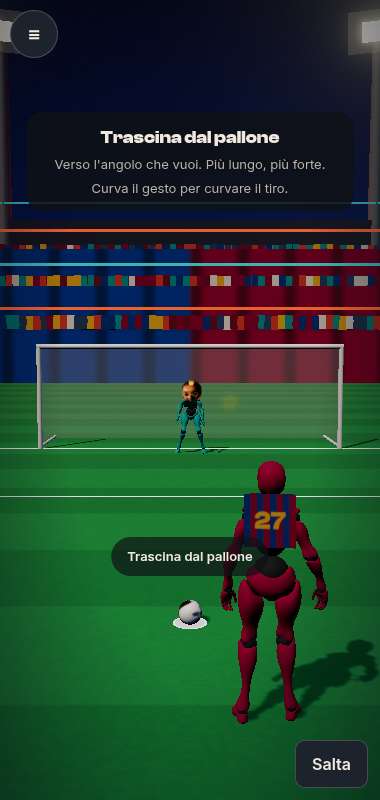
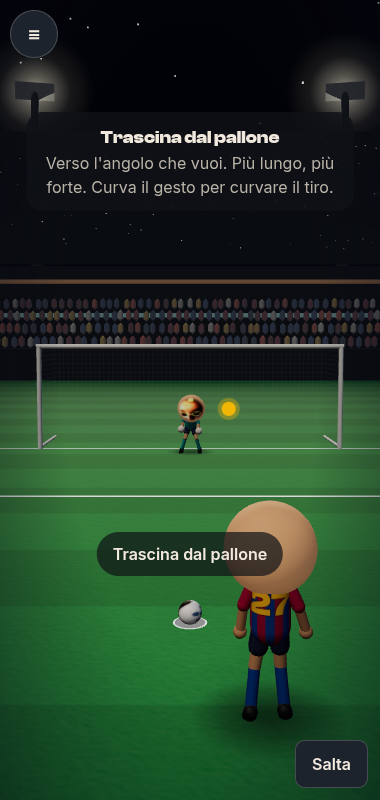
perf(rigori): stadio fuso in poche draw call, testi a 16 px, import statico delle schermate
- scene/stadium.js: gradoni, alzate, pannelli, LED, pali, teste e coni dei fari fusi per materiale (BufferGeometryUtils)
- accessibilità: nessun testo sotto i 16 px nel gioco (--fs-0 locale), focus visibile già presente su bottoni, card, modalità e interruttori
- rigori/index.html: commento riformulato (nessuna parola chiave dei controlli QA); overlay importato staticamente
- QA: gli eventi di flusso (replayEnd, modeStart, modeEnd, xp, tell) finiscono nel registro __rigori.events;
  scripts/qa/rigori-flow.mjs passa dal tap iniziale

Claude-Session: https://claude.ai/code/session_0186k4nPYJUNr6xdRgi69dU8

diff --git a/src/rigori/scene/stadium.js b/src/rigori/scene/stadium.js
@@ -1,8 +1,10 @@
 import * as THREE from 'three'
+import { mergeGeometries } from 'three/addons/utils/BufferGeometryUtils.js'
 import { STAND } from './crowd.js'
 import { glowTexture } from './textures.js'
 // Stadio low-poly: gradinate a 8 gradoni per lato (colori piatti, niente texture), pannello scuro dietro,
 // strisce LED terracotta/acqua, quattro torri faro con fascio visibile, cielo notturno a gradiente e stelle.
+// Tutte le parti statiche dello stesso materiale sono fuse in una geometria sola: poche draw call (budget mobile).
 export function createStadium() {
   const g = new THREE.Group()
   const S = STAND
@@ -10,55 +12,51 @@ export function createStadium() {
   const riserMat = new THREE.MeshStandardMaterial({ color: 0x1c2234, roughness: .95 })
   const wallMat = new THREE.MeshStandardMaterial({ color: 0x0d1019, roughness: 1 })
   const led = [new THREE.MeshBasicMaterial({ color: new THREE.Color(0xE8552E).multiplyScalar(2.4) }), new THREE.MeshBasicMaterial({ color: new THREE.Color(0x2CA6A4).multiplyScalar(2.4) })]
+  const buckets = { step: [], riser: [], wall: [], led0: [], led1: [], pole: [] }
+  const box = (bucket, sx, sy, sz, x, y, z) => { const b = new THREE.BoxGeometry(sx, sy, sz); b.translate(x, y, z); buckets[bucket].push(b) }
   // Un gradone = pedata (box sottile) + alzata; quattro lati per fila
   for (let r = 0; r < S.rows; r++) {
     const off = S.depth * r, y = S.y0 + r * S.rise, w = S.halfW + off, d = S.halfD + off
-    const tread = (sx, sz, x, z) => { const m = new THREE.Mesh(new THREE.BoxGeometry(sx, 0.18, sz), stepMat); m.position.set(x, y - 0.09, z); g.add(m) }
-    const riser = (sx, sz, x, z) => { const m = new THREE.Mesh(new THREE.BoxGeometry(sx, S.rise, sz), riserMat); m.position.set(x, y - S.rise / 2, z); g.add(m) }
-    tread(w * 2 + S.depth * 2, S.depth, S.cx, S.cz - d - S.depth / 2); tread(w * 2 + S.depth * 2, S.depth, S.cx, S.cz + d + S.depth / 2)
-    tread(S.depth, d * 2, S.cx - w - S.depth / 2, S.cz); tread(S.depth, d * 2, S.cx + w + S.depth / 2, S.cz)
-    riser(w * 2, 0.2, S.cx, S.cz - d); riser(w * 2, 0.2, S.cx, S.cz + d); riser(0.2, d * 2, S.cx - w, S.cz); riser(0.2, d * 2, S.cx + w, S.cz)
+    box('step', w * 2 + S.depth * 2, 0.18, S.depth, S.cx, y - 0.09, S.cz - d - S.depth / 2); box('step', w * 2 + S.depth * 2, 0.18, S.depth, S.cx, y - 0.09, S.cz + d + S.depth / 2)
+    box('step', S.depth, 0.18, d * 2, S.cx - w - S.depth / 2, y - 0.09, S.cz); box('step', S.depth, 0.18, d * 2, S.cx + w + S.depth / 2, y - 0.09, S.cz)
+    box('riser', w * 2, S.rise, 0.2, S.cx, y - S.rise / 2, S.cz - d); box('riser', w * 2, S.rise, 0.2, S.cx, y - S.rise / 2, S.cz + d)
+    box('riser', 0.2, S.rise, d * 2, S.cx - w, y - S.rise / 2, S.cz); box('riser', 0.2, S.rise, d * 2, S.cx + w, y - S.rise / 2, S.cz)
     if (r % 3 === 0) { // strisce LED sull'alzata del gradone, alternate terracotta/acqua per lato
-      const strip = (sx, sz, x, z, i) => { const m = new THREE.Mesh(new THREE.BoxGeometry(sx, 0.34, sz), led[i % 2]); m.position.set(x, y - 0.45, z); g.add(m) }
-      strip(w * 2, 0.3, S.cx, S.cz - d - 0.05, r); strip(w * 2, 0.3, S.cx, S.cz + d + 0.05, r + 1)
-      strip(0.3, d * 2, S.cx - w - 0.05, S.cz, r + 1); strip(0.3, d * 2, S.cx + w + 0.05, S.cz, r)
+      box('led' + (r % 2), w * 2, 0.34, 0.3, S.cx, y - 0.45, S.cz - d - 0.05); box('led' + ((r + 1) % 2), w * 2, 0.34, 0.3, S.cx, y - 0.45, S.cz + d + 0.05)
+      box('led' + ((r + 1) % 2), 0.3, 0.34, d * 2, S.cx - w - 0.05, y - 0.45, S.cz); box('led' + (r % 2), 0.3, 0.34, d * 2, S.cx + w + 0.05, y - 0.45, S.cz)
     }
   }
   // Parapetto davanti alla prima fila e pannello scuro dietro l'ultima
-  const front = new THREE.Mesh(new THREE.BoxGeometry(S.halfW * 2 + 0.4, S.y0, 0.3), riserMat); front.position.set(S.cx, S.y0 / 2, S.cz - S.halfD); g.add(front)
-  const front2 = front.clone(); front2.position.z = S.cz + S.halfD; g.add(front2)
-  const side = new THREE.Mesh(new THREE.BoxGeometry(0.3, S.y0, S.halfD * 2), riserMat); side.position.set(S.cx - S.halfW, S.y0 / 2, S.cz); g.add(side)
-  const side2 = side.clone(); side2.position.x = S.cx + S.halfW; g.add(side2)
+  box('riser', S.halfW * 2 + 0.4, S.y0, 0.3, S.cx, S.y0 / 2, S.cz - S.halfD); box('riser', S.halfW * 2 + 0.4, S.y0, 0.3, S.cx, S.y0 / 2, S.cz + S.halfD)
+  box('riser', 0.3, S.y0, S.halfD * 2, S.cx - S.halfW, S.y0 / 2, S.cz); box('riser', 0.3, S.y0, S.halfD * 2, S.cx + S.halfW, S.y0 / 2, S.cz)
   const back = S.depth * (S.rows + 0.6), yTop = S.y0 + S.rows * S.rise, wallH = 11
-  const wall = (sx, sz, x, z) => { const m = new THREE.Mesh(new THREE.BoxGeometry(sx, wallH, sz), wallMat); m.position.set(x, yTop + wallH / 2 - 0.5, z); g.add(m) }
-  wall((S.halfW + back) * 2 + 1, 0.6, S.cx, S.cz - S.halfD - back - 0.3); wall((S.halfW + back) * 2 + 1, 0.6, S.cx, S.cz + S.halfD + back + 0.3)
-  wall(0.6, (S.halfD + back) * 2, S.cx - S.halfW - back - 0.3, S.cz); wall(0.6, (S.halfD + back) * 2, S.cx + S.halfW + back + 0.3, S.cz)
+  box('wall', (S.halfW + back) * 2 + 1, wallH, 0.6, S.cx, yTop + wallH / 2 - 0.5, S.cz - S.halfD - back - 0.3); box('wall', (S.halfW + back) * 2 + 1, wallH, 0.6, S.cx, yTop + wallH / 2 - 0.5, S.cz + S.halfD + back + 0.3)
+  box('wall', 0.6, wallH, (S.halfD + back) * 2, S.cx - S.halfW - back - 0.3, yTop + wallH / 2 - 0.5, S.cz); box('wall', 0.6, wallH, (S.halfD + back) * 2, S.cx + S.halfW + back + 0.3, yTop + wallH / 2 - 0.5, S.cz)
   // Torri faro: palo, testa emissiva (il bloom la accende), alone e cono di luce additivo verso il campo
   const lamp = new THREE.MeshStandardMaterial({ color: 0xffffff, emissive: 0xfff1c8, emissiveIntensity: 6 })
   const pole = new THREE.MeshStandardMaterial({ color: 0x6f7480, roughness: .6, metalness: .4 })
-  // Fascio: cono additivo che sfuma dall'apice (α 0,09) alla base (0); solo le facce interne, così da dentro
-  // il cono si vede un solo strato e l'immagine non si lava
+  // Fascio: cono additivo che sfuma dall'apice alla base; solo le facce interne, così da dentro il cono
+  // si vede un solo strato e l'immagine non si lava
   const beamMat = new THREE.ShaderMaterial({
     transparent: true, depthWrite: false, blending: THREE.AdditiveBlending, side: THREE.BackSide, fog: false,
     uniforms: { color: { value: new THREE.Color(0xfff1c8) } },
     vertexShader: 'varying float vT; void main(){ vT = uv.y; gl_Position = projectionMatrix * modelViewMatrix * vec4(position, 1.0); }',
     fragmentShader: 'uniform vec3 color; varying float vT; void main(){ float a = 0.13 * pow(vT, 2.0); gl_FragColor = vec4(color * a, a); }'
   })
-  const haloTex = glowTexture()
-  const haloMat = new THREE.SpriteMaterial({ map: haloTex, color: 0xfff1c8, transparent: true, opacity: .9, blending: THREE.AdditiveBlending, depthWrite: false, fog: false })
-  const towers = [], lightPos = []
+  const haloMat = new THREE.SpriteMaterial({ map: glowTexture(), color: 0xfff1c8, transparent: true, opacity: .9, blending: THREE.AdditiveBlending, depthWrite: false, fog: false })
+  const towers = [], lightPos = [], heads = [], cones = []
   const aim = new THREE.Vector3(0, 0, 22)
   for (const [x, z, h] of [[-17, -64, 30], [17, -64, 30], [-62, 126, 40], [62, 126, 40]]) {
-    const p = new THREE.Mesh(new THREE.CylinderGeometry(0.45, 0.9, h, 8), pole); p.position.set(x, h / 2, z); g.add(p)
-    const head = new THREE.Mesh(new THREE.BoxGeometry(4.2, 1.8, 0.9), lamp); head.position.set(x, h, z); head.lookAt(aim); g.add(head); towers.push(head)
-    const halo = new THREE.Sprite(haloMat); halo.position.copy(head.position); halo.scale.set(13, 13, 1); g.add(halo)
-    // cono: apice sulla testa, base verso il campo (lunghezza = distanza dal punto mirato)
+    const pg = new THREE.CylinderGeometry(0.45, 0.9, h, 8); pg.translate(x, h / 2, z); buckets.pole.push(pg)
+    const head = new THREE.Mesh(new THREE.BoxGeometry(4.2, 1.8, 0.9), lamp); head.position.set(x, h, z); head.lookAt(aim); head.updateMatrix(); heads.push(head.geometry.clone().applyMatrix4(head.matrix)); towers.push(head)
+    const halo = new THREE.Sprite(haloMat); halo.position.set(x, h, z); halo.scale.set(13, 13, 1); g.add(halo)
     const dir = aim.clone().sub(head.position), len = dir.length()
-    const cone = new THREE.Mesh(new THREE.ConeGeometry(9, len, 20, 1, true), beamMat)
-    cone.geometry.translate(0, -len / 2, 0) // apice nell'origine, cono verso -y
-    cone.position.copy(head.position); cone.quaternion.setFromUnitVectors(new THREE.Vector3(0, -1, 0), dir.normalize()); g.add(cone)
+    const cone = new THREE.ConeGeometry(9, len, 20, 1, true); cone.translate(0, -len / 2, 0)
+    const q = new THREE.Quaternion().setFromUnitVectors(new THREE.Vector3(0, -1, 0), dir.normalize()); cone.applyQuaternion(q); cone.translate(x, h, z); cones.push(cone)
     lightPos.push(new THREE.Vector3(x, h, z))
   }
+  const merged = (list, mat) => { if (!list.length) return; const m = new THREE.Mesh(mergeGeometries(list, false), mat); m.matrixAutoUpdate = false; g.add(m); for (const b of list) b.dispose() }
+  merged(buckets.step, stepMat); merged(buckets.riser, riserMat); merged(buckets.wall, wallMat); merged(buckets.led0, led[0]); merged(buckets.led1, led[1]); merged(buckets.pole, pole); merged(heads, lamp); merged(cones, beamMat)
   // Cielo: sfera con gradiente notturno scuro (niente blu piatto) e stelle non toccate dalla nebbia
   const skyMat = new THREE.ShaderMaterial({
     side: THREE.BackSide, depthWrite: false, fog: false,

diff --git a/src/rigori/styles/rigori.css b/src/rigori/styles/rigori.css
@@ -4,7 +4,7 @@
 @font-face{ font-family:"Inter"; src:url("/fonts/Inter-Variable.woff2") format("woff2"); font-weight:100 900; font-display:swap; }
 *,*::before,*::after{ box-sizing:border-box; }
 html,body{ margin:0; height:100%; background:var(--bg); color:var(--ink); font-family:var(--font-body); font-size:var(--fs-1); line-height:1.5; overflow:hidden; overscroll-behavior:none; -webkit-font-smoothing:antialiased; }
-#game{ position:fixed; inset:0; height:100dvh; }
+#game{ position:fixed; inset:0; height:100dvh; --fs-0:16px; /* accessibilità: nessun testo sotto i 16px nel gioco */ }
 .rg-boot{ margin:0; padding:var(--space-5); font-family:var(--font-display); }
 
 /* Stage 3D e livelli UI */
@@ -61,7 +61,7 @@ html,body{ margin:0; height:100%; background:var(--bg); color:var(--ink); font-f
 .rg-card{ position:relative; display:flex; flex-direction:column; align-items:center; gap:6px; padding:10px 6px 12px; min-height:150px; border-radius:var(--radius-m); background:var(--bg-3); border:2px solid transparent; color:var(--ink); font:inherit; cursor:pointer; }
 .rg-card--on{ border-color:var(--giallo); }
 .rg-card:focus-visible{ outline:3px solid var(--giallo); outline-offset:2px; }
-.rg-card__jersey{ position:absolute; top:8px; right:8px; width:28px; height:32px; border-radius:6px; display:grid; place-items:center; font-family:var(--font-display); font-weight:700; font-size:14px; }
+.rg-card__jersey{ position:absolute; top:8px; right:8px; width:28px; height:32px; border-radius:6px; display:grid; place-items:center; font-family:var(--font-display); font-weight:700; font-size:16px; }
 .rg-card__face{ width:80px; height:80px; object-fit:contain; }
 .rg-card__face--bust{ width:96px; height:96px; }
 .rg-card__name{ font-family:var(--font-display); font-weight:700; font-size:var(--fs-2); }
@@ -84,7 +84,7 @@ html,body{ margin:0; height:100%; background:var(--bg); color:var(--ink); font-f
 .rg-ring circle.bg{ stroke:var(--bg-3); }
 .rg-ring circle.fg{ stroke:var(--giallo); }
 .rg-ring__label{ position:absolute; inset:0; display:flex; flex-direction:column; align-items:center; justify-content:center; font-family:var(--font-display); font-weight:700; font-size:var(--fs-2); line-height:1; }
-.rg-ring__label small{ font-family:var(--font-body); font-size:11px; color:var(--ink-2); font-weight:600; }
+.rg-ring__label small{ font-family:var(--font-body); font-size:14px; color:var(--ink-2); font-weight:600; }
 .rg-ach{ display:flex; flex-wrap:wrap; gap:6px; }
 .rg-ach__item{ padding:6px 10px; border-radius:999px; background:color-mix(in srgb, var(--giallo) 20%, transparent); color:var(--giallo); font-weight:700; font-size:var(--fs-0); }
 .rg-unlocks{ margin:0; padding:0; list-style:none; display:flex; flex-direction:column; gap:6px; }

diff --git a/src/rigori/main.js b/src/rigori/main.js
@@ -35,6 +35,7 @@ import { risultato } from './ui/screens/risultato.js'
 import { opzioni } from './ui/screens/opzioni.js'
 import { sblocchi } from './ui/screens/sblocchi.js'
 import { onboarding } from './ui/screens/onboarding.js'
+import { overlay } from './ui/screens/overlay.js'
 import { toast } from './ui/components/toast.js'
 import { save } from './core/save.js'
 import { setCamera } from './scene/players.js'
@@ -306,7 +307,6 @@ async function runFlow() {
 }
 menuBtn.addEventListener('click', async () => { const v = await overlayMenu(); if (v === 'esci') quitRequested = true })
 async function overlayMenu() {
-  const { overlay } = await import('./ui/screens/overlay.js')
   const v = await overlay(game.ui, `<h2 class="rg-title">Pausa</h2><div class="rg-row"><button class="rg-btn rg-btn--primary" data-value="continua" aria-label="Continua">Continua</button><button class="rg-btn" data-value="opzioni" aria-label="Opzioni">Opzioni</button><button class="rg-btn rg-btn--ghost" data-value="esci" aria-label="Esci dalla partita">Esci</button></div>`, { label: 'Pausa', closable: true })
   if (v === 'opzioni') { await opzioni(game.ui, settings, { onChange: applySettings, onReset: () => { save.reset(); toast(game.ui, 'Progressi azzerati'); setTimeout(() => location.reload(), 700) } }); return 'continua' }
   return v

diff --git a/rigori/index.html b/rigori/index.html
@@ -14,7 +14,7 @@
     <link rel="icon" type="image/svg+xml" href="../favicon.svg" />
     <link rel="preload" href="../fonts/ClashDisplay-Bold.woff2" as="font" type="font/woff2" crossorigin />
     <link rel="preload" href="../fonts/Inter-Variable.woff2" as="font" type="font/woff2" crossorigin />
-    <!-- Pagina web normale: nessun manifest, nessun service worker, nessun meta standalone. -->
+    <!-- Pagina web classica: nessun file di installazione, nessun worker, nessuna modalità app -->
   </head>
   <body>
     <div id="game"></div>
